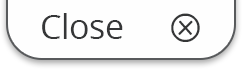
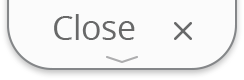
Made close button swipeable to avoid overlapping with demos.
Task-Id: QTRD-3797

diff --git a/qml/Main.qml b/qml/Main.qml
@@ -215,15 +215,31 @@ Window {
                 id: applicationCloseButton
                 source: "images/close-button.png"
                 anchors.horizontalCenter: parent.horizontalCenter
-                anchors.horizontalCenterOffset: parent.width / 4
                 enabled: engine.state == "app-running"
+                y: -height * .6
+                z: 1
+
+                Behavior on y { NumberAnimation { duration: 100 } }
+
                 MouseArea {
                     anchors.fill: parent
+                    drag.target: applicationCloseButton
+                    drag.axis: Drag.YAxis
+                    drag.minimumX: -applicationCloseButton.height * .6
+                    drag.maximumY: 0
+
                     onClicked: {
+                        if (applicationCloseButton.y < -applicationCloseButton.height / 2)
+                            return;
+
                         engine.state = "app-closing"
+                        applicationCloseButton.y = -applicationCloseButton.height * .6
                     }
+
+                    onReleased: applicationCloseButton.y = applicationCloseButton.y > -applicationCloseButton.height / 2 ?
+                                    0 :
+                                    -applicationCloseButton.height * .6
                 }
-                z: 1
             }
         }
 
